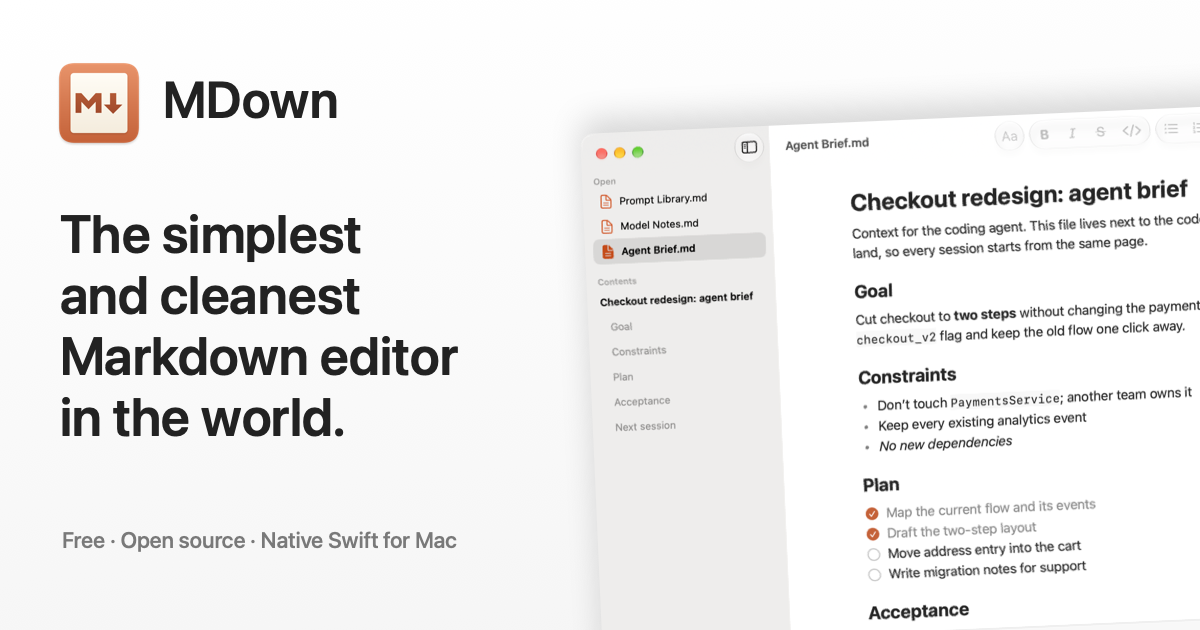
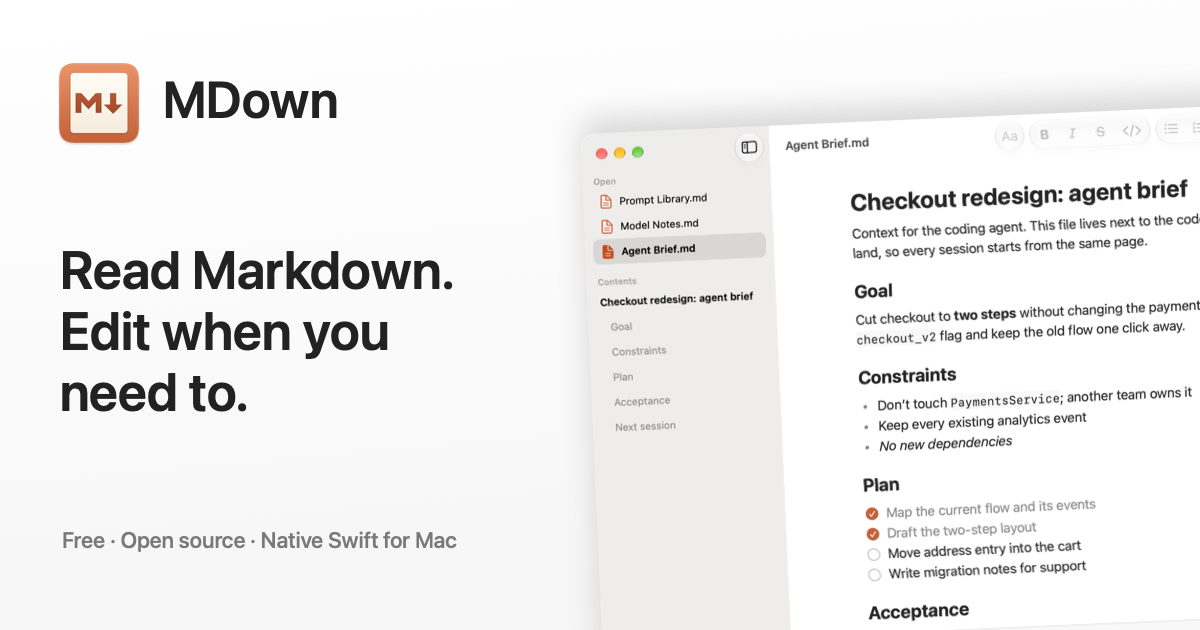
Focus the website on reading Markdown and shorten the copy

Changed region(s): [[0.0308, 0.3317, 0.4008, 0.6937]]

diff --git a/docs/index.html b/docs/index.html
@@ -10,12 +10,12 @@
   document.documentElement.classList.add(/Macintosh/.test(navigator.userAgent) && navigator.maxTouchPoints < 2 ? "is-mac" : "not-mac");
 </script>
 <meta name="viewport" content="width=device-width, initial-scale=1">
-<title>MDown, the simplest and cleanest Markdown editor in the world</title>
-<meta name="description" content="MDown is a free, open-source, native Mac Markdown editor. AI speaks Markdown, and MDown makes every page easy to read and one click away from editing.">
+<title>MDown — Read Markdown. Edit when you need to.</title>
+<meta name="description" content="We read Markdown more than we edit it. MDown opens it instantly as a clean page. Free, open source, and native to Mac. No accounts, sync, or vaults.">
 <meta name="theme-color" content="#ffffff" media="(prefers-color-scheme: light)">
 <meta name="theme-color" content="#1c1c1e" media="(prefers-color-scheme: dark)">
-<meta property="og:title" content="MDown, the simplest and cleanest Markdown editor in the world">
-<meta property="og:description" content="Free, open source, native Swift. Easy to read, one click to edit.">
+<meta property="og:title" content="MDown — Read Markdown. Edit when you need to.">
+<meta property="og:description" content="Opens instantly as a clean page. Free, open source, and native to Mac. No accounts, sync, or vaults.">
 <meta property="og:url" content="https://mdown.sandeepgangarapu.com/">
 <meta property="og:type" content="website">
 <meta name="twitter:card" content="summary_large_image">
@@ -24,7 +24,7 @@
 <meta property="og:image" content="https://mdown.sandeepgangarapu.com/assets/og.png">
 <meta property="og:image:width" content="1200">
 <meta property="og:image:height" content="630">
-<meta property="og:image:alt" content="MDown — The simplest and cleanest Markdown editor in the world. Free, open source, and built with native Swift for Mac.">
+<meta property="og:image:alt" content="MDown — Read Markdown. Edit when you need to. Free, open source, native Swift for Mac.">
 <meta name="twitter:image" content="https://mdown.sandeepgangarapu.com/assets/og.png">
 <link rel="icon" type="image/svg+xml" href="/assets/favicon.svg">
 <link rel="icon" type="image/png" sizes="64x64" href="/assets/favicon.png">
@@ -131,11 +131,11 @@
   }
 
   /* Hero */
-  .hero { padding: clamp(48px, 9vw, 120px) 0 clamp(64px, 8vw, 112px); }
+  .hero { padding: clamp(48px, 7vw, 80px) 0 clamp(56px, 7vw, 88px); }
   h1 {
     margin: 0;
-    max-width: 16ch;
-    font-size: clamp(42px, 6.6vw, 84px);
+    max-width: 22ch;
+    font-size: clamp(38px, 6.6vw, 76px);
     line-height: 1.0;
     font-weight: 700;
     letter-spacing: -0.038em;
@@ -179,7 +179,7 @@
   .stars { font-weight: 500; color: var(--muted); }
 
   /* Hero: the page, then the same page with one block opened, on a loop. */
-  .shot { margin: clamp(48px, 7vw, 88px) auto 0; max-width: 1240px; padding: 0 clamp(8px, 3vw, 40px); }
+  .shot { margin: clamp(40px, 6vw, 64px) auto 0; max-width: 1240px; padding: 0 clamp(8px, 3vw, 40px); }
   .loop {
     position: relative;
     filter: drop-shadow(0 30px 50px rgba(0, 0, 0, 0.18)) drop-shadow(0 2px 6px rgba(0, 0, 0, 0.10));
@@ -219,7 +219,7 @@
   }
 
   /* Sections */
-  section { padding: clamp(72px, 10vw, 136px) 0; }
+  section { padding: clamp(56px, 7vw, 88px) 0; }
   h2 {
     margin: 0;
     max-width: 18ch;
@@ -230,13 +230,7 @@
   }
   .section-intro { margin: 22px 0 0; max-width: var(--measure); font-size: 20px; line-height: 1.5; color: var(--muted); }
 
-  .problem { background: var(--canvas); }
   .try, .compare { background: var(--canvas); }
-  .problem .columns { display: grid; gap: 28px 64px; margin-top: 40px; max-width: 980px; }
-  @media (min-width: 820px) { .problem .columns { grid-template-columns: 1fr 1fr; } }
-  .problem p { margin: 0; font-size: 20px; line-height: 1.55; }
-  .problem p + p { color: var(--muted); }
-  .problem .columns p:last-child { color: var(--ink); }
 
   /* Live demo */
   .demo-layout { display: grid; gap: 40px 72px; align-items: start; }
@@ -323,7 +317,7 @@
 
   /* Features */
   .features { background: var(--page); }
-  .feature-list { display: grid; gap: 40px 72px; margin: 56px 0 0; }
+  .feature-list { display: grid; gap: 28px 56px; margin: 36px 0 0; }
   @media (min-width: 760px) { .feature-list { grid-template-columns: 1fr 1fr; } }
   @media (min-width: 1100px) { .feature-list { grid-template-columns: 1fr 1fr 1fr; } }
   .feature-list dt { font-size: 20px; font-weight: 650; letter-spacing: -0.012em; display: flex; align-items: center; gap: 10px; }
@@ -364,7 +358,7 @@
   .terminal .copy:hover { box-shadow: 0 0 0 1px var(--muted); }
 
   /* Comparison */
-  .compare-table { width: 100%; max-width: 980px; margin: 48px 0 0; border-collapse: collapse; font-size: 16px; }
+  .compare-table { width: 100%; max-width: 980px; margin: 32px 0 0; border-collapse: collapse; font-size: 16px; }
   .compare-table caption { position: absolute; width: 1px; height: 1px; overflow: hidden; clip: rect(0 0 0 0); }
   .compare-table th, .compare-table td { padding: 15px 18px; text-align: left; border-bottom: 1px solid var(--rule); vertical-align: top; }
   .compare-table thead th { font-size: 14px; font-weight: 600; color: var(--muted); border-bottom-width: 1.5px; }
@@ -441,8 +435,13 @@
 
   @media (max-width: 560px) {
     .site-nav .hide-small { display: none; }
+    h1 { font-size: 34px; }
+    .compare-table { font-size: 14px; }
+    .compare-table th, .compare-table td { padding: 12px 6px; }
+    .compare-table thead th { font-size: 12px; }
     .button { width: 100%; justify-content: center; }
   }
+  h1 .keep-together { white-space: nowrap; }
 </style>
 </head>
 <body>
@@ -461,24 +460,24 @@
 <main>
   <div class="hero">
     <div class="wrap">
-      <h1 class="md-heading"><span class="md-mark" aria-hidden="true">#</span>The simplest and cleanest Markdown editor in the world.</h1>
-      <p class="lede">AI writes in Markdown. MDown makes it easy to read and puts editing one click away.</p>
+      <h1 class="md-heading"><span class="md-mark" aria-hidden="true">#</span>Read Markdown.<br>Edit when you <span class="keep-together">need to.</span></h1>
+      <p class="lede">We read Markdown more than we edit it. MDown opens it instantly as a clean page.</p>
       <div class="actions mac-only">
         <a class="button button-primary" href="https://github.com/sandeepgangarapu/mdown/releases/latest/download/MDown.dmg">
           <svg viewBox="0 0 24 24" fill="none" stroke="currentColor" stroke-width="2.2" stroke-linecap="round" stroke-linejoin="round" aria-hidden="true"><path d="M12 4v11"/><path d="m7 10 5 5 5-5"/><path d="M5 20h14"/></svg>
           Download for Mac
         </a>
-        <a class="button button-quiet" href="https://github.com/sandeepgangarapu/mdown">View source on GitHub<span class="stars" data-stars hidden></span></a>
+        <a class="button button-quiet" href="https://github.com/sandeepgangarapu/mdown">View source<span class="stars" data-stars hidden></span></a>
       </div>
-      <p class="release-meta mac-only"><span data-release-line>MDown 1.1 is a 4 MB download for macOS 26 or later.</span> <a href="#first-launch">The first launch takes one extra click.</a></p>
+      <p class="release-meta mac-only"><span data-release-line>MDown 1.1.1 · 4 MB · macOS 26+</span> · <a href="#first-launch">First launch help</a></p>
       <div class="actions other-only">
-        <p class="other-note">MDown is a Mac app. Send yourself the link and open it on your Mac.</p>
+        <p class="other-note">For Mac. Save the link for later.</p>
         <button class="button button-primary" type="button" data-share>Copy link</button>
       </div>
       <ul class="facts">
         <li><svg viewBox="0 0 16 16" fill="none" stroke="currentColor" stroke-width="2" stroke-linecap="round" stroke-linejoin="round" aria-hidden="true"><path d="m3.5 8.5 3 3 6-7"/></svg>Free</li>
-        <li><svg viewBox="0 0 16 16" fill="none" stroke="currentColor" stroke-width="2" stroke-linecap="round" stroke-linejoin="round" aria-hidden="true"><path d="m3.5 8.5 3 3 6-7"/></svg>Open source, MIT licensed</li>
-        <li><svg viewBox="0 0 16 16" fill="none" stroke="currentColor" stroke-width="2" stroke-linecap="round" stroke-linejoin="round" aria-hidden="true"><path d="m3.5 8.5 3 3 6-7"/></svg>Native Swift, made for macOS</li>
+        <li><svg viewBox="0 0 16 16" fill="none" stroke="currentColor" stroke-width="2" stroke-linecap="round" stroke-linejoin="round" aria-hidden="true"><path d="m3.5 8.5 3 3 6-7"/></svg>Open source</li>
+        <li><svg viewBox="0 0 16 16" fill="none" stroke="currentColor" stroke-width="2" stroke-linecap="round" stroke-linejoin="round" aria-hidden="true"><path d="m3.5 8.5 3 3 6-7"/></svg>Native Swift</li>
       </ul>
     </div>
     <div class="shot">
@@ -497,26 +496,16 @@
         </picture>
         <svg class="cursor" viewBox="0 0 22 30" aria-hidden="true"><path d="M2 2v22.5l5.6-5.4 3.9 8.9 3.7-1.6-3.8-8.6H19z" fill="#000" stroke="#fff" stroke-width="1.6" stroke-linejoin="round"/></svg>
       </div>
-      <p class="loop-caption">Click a block to see its Markdown. Click away and it sets again. <a href="#try">Try it on this page.</a></p>
+      <p class="loop-caption">One click to edit. Click away to read. <a href="#try">Try it.</a></p>
     </div>
   </div>
-
-  <section class="problem" aria-labelledby="problem-title">
-    <div class="wrap">
-      <h2 class="md-heading" id="problem-title"><span class="md-mark" aria-hidden="true">##</span>Everything else is too much.</h2>
-      <div class="columns">
-        <p>Other editors keep your writing in their own database, behind an account, a sync service, and a plugin store. Or they’re expensive. Or they’re just too complex.</p>
-        <p>Working with AI needs less. You open a .md file, read what the model wrote, fix a line, and hand it back. MDown does exactly that, then gets out of the way.</p>
-      </div>
-    </div>
-  </section>
 
   <section class="try" id="try" aria-labelledby="try-title">
     <div class="wrap demo-layout">
       <div>
-        <h2 class="md-heading" id="try-title"><span class="md-mark" aria-hidden="true">##</span>Click a line to see how it’s written.</h2>
-        <p class="section-intro">Every block on an MDown page is real Markdown. Click one and it turns into its source, right where it was. Change it, then click away and it sets again.</p>
-        <p class="demo-hint">Try it on this page. Press <kbd>esc</kbd> or click outside to finish.</p>
+        <h2 class="md-heading" id="try-title"><span class="md-mark" aria-hidden="true">##</span>Try a quick edit.</h2>
+        <p class="section-intro">Click a block. Edit the Markdown. Click away to read.</p>
+        <p class="demo-hint"><kbd>esc</kbd> works too.</p>
       </div>
       <div class="demo-page" id="demo" aria-label="Live MDown page"></div>
     </div>
@@ -528,27 +517,27 @@
       <dl class="feature-list">
         <div>
           <dt><svg viewBox="0 0 24 24" fill="none" stroke="currentColor" stroke-width="1.8" stroke-linecap="round" stroke-linejoin="round" aria-hidden="true"><path d="M14 3H7a2 2 0 0 0-2 2v14a2 2 0 0 0 2 2h10a2 2 0 0 0 2-2V8z"/><path d="M14 3v5h5"/></svg>Your files stay files</dt>
-          <dd>Plain .md files on disk. No database, no account, no sync service. Git, your terminal, and your AI tools all read the same file you do.</dd>
+          <dd>Plain .md files. No accounts, sync, or vaults.</dd>
         </div>
         <div>
           <dt><svg viewBox="0 0 24 24" fill="none" stroke="currentColor" stroke-width="1.8" stroke-linecap="round" stroke-linejoin="round" aria-hidden="true"><path d="M13 2 4 14h7l-1 8 9-12h-7z"/></svg>Native and quick</dt>
-          <dd>Written in Swift with SwiftUI and AppKit. It opens instantly, stays light on memory, and behaves like the rest of your Mac.</dd>
+          <dd>Opens instantly. Feels like your Mac.</dd>
         </div>
         <div>
           <dt><svg viewBox="0 0 24 24" fill="none" stroke="currentColor" stroke-width="1.8" stroke-linecap="round" stroke-linejoin="round" aria-hidden="true"><path d="M4 20h4L19 9l-4-4L4 16z"/><path d="m13.5 6.5 4 4"/></svg>Edit in place</dt>
-          <dd>Click any block to edit its Markdown. Return starts a new paragraph or list item, Tab nests a list, and the arrow keys move between blocks.</dd>
+          <dd>Click a block to edit. Click away to read.</dd>
         </div>
         <div>
           <dt><svg viewBox="0 0 24 24" fill="none" stroke="currentColor" stroke-width="1.8" stroke-linecap="round" stroke-linejoin="round" aria-hidden="true"><rect x="3" y="4" width="18" height="16" rx="3"/><path d="M9 4v16"/></svg>Every open file in view</dt>
-          <dd>The sidebar lists your open documents, the current one’s headings, and recent files. Switch with a click, jump to any section.</dd>
+          <dd>Open files and headings, together in the sidebar.</dd>
         </div>
         <div>
           <dt><svg viewBox="0 0 24 24" fill="none" stroke="currentColor" stroke-width="1.8" stroke-linecap="round" stroke-linejoin="round" aria-hidden="true"><rect x="3" y="6" width="18" height="12" rx="2.5"/><path d="M7 10h.01M11 10h.01M15 10h.01M8 14h8"/></svg>Shortcuts you already know</dt>
-          <dd>Title, Heading, Body, and Checklist use the same keys as Notes. Bold is ⌘B, a link is ⌘K, and Find is ⌘F.</dd>
+          <dd>⌘B for bold. ⌘K for links. ⌘F to find.</dd>
         </div>
         <div>
           <dt><svg viewBox="0 0 24 24" fill="none" stroke="currentColor" stroke-width="1.8" stroke-linecap="round" stroke-linejoin="round" aria-hidden="true"><path d="m8 7-5 5 5 5"/><path d="m16 7 5 5-5 5"/></svg>Free and open source</dt>
-          <dd>MIT licensed and built in the open. MDown checks for new versions and updates itself in one click.</dd>
+          <dd>MIT licensed. Automatic updates included.</dd>
         </div>
       </dl>
     </div>
@@ -564,13 +553,11 @@
             <tr><td></td><th scope="col">Note apps</th><th scope="col">Code editors</th><th scope="col" class="us">MDown</th></tr>
           </thead>
           <tbody>
-            <tr><th scope="row">Free</th><td>Often paid</td><td>Usually</td><td class="us">Yes</td></tr>
-            <tr><th scope="row">Native Mac app</th><td>Some</td><td>Rarely</td><td class="us">Yes</td></tr>
-            <tr><th scope="row">Plain .md files on your disk</th><td>Some</td><td>Yes</td><td class="us">Yes</td></tr>
-            <tr><th scope="row">No account needed</th><td>Rarely</td><td>Yes</td><td class="us">Yes</td></tr>
-            <tr><th scope="row">Reads like a finished page</th><td>Yes</td><td>In a preview pane</td><td class="us">Yes</td></tr>
-            <tr><th scope="row">Edit the Markdown in place</th><td>No</td><td>In a split view</td><td class="us">One click</td></tr>
-            <tr><th scope="row">Download size</th><td>Often 100 MB or more</td><td>Often 100 MB or more</td><td class="us">About 4 MB</td></tr>
+            <tr><th scope="row">Opens instantly</th><td>Varies</td><td>Varies</td><td class="us">Yes</td></tr>
+            <tr><th scope="row">Opens ready to read</th><td>Varies</td><td>Preview mode</td><td class="us">Yes</td></tr>
+            <tr><th scope="row">Free</th><td>Varies</td><td>Varies</td><td class="us">Yes</td></tr>
+            <tr><th scope="row">Account, sync, or vault</th><td>Varies</td><td>Varies</td><td class="us">None needed</td></tr>
+            <tr><th scope="row">Main purpose</th><td>Notes</td><td>Code</td><td class="us">Markdown</td></tr>
           </tbody>
         </table>
       </div>
@@ -580,7 +567,7 @@
   <section class="privacy" aria-labelledby="privacy-title">
     <div class="wrap">
       <h2 class="md-heading" id="privacy-title"><span class="md-mark" aria-hidden="true">##</span>Your words stay on your Mac.</h2>
-      <p class="privacy-statement">No account. No tracking. No cloud of its own. MDown reads and writes plain files on your disk, and only goes online to check for updates and to load images your documents link to.</p>
+      <p class="privacy-statement">No account or tracking. Only update checks and linked images use the internet.</p>
     </div>
   </section>
 
@@ -597,16 +584,15 @@
           <a class="button button-quiet" href="https://github.com/sandeepgangarapu/mdown/releases">All releases</a>
         </div>
         <div class="actions other-only">
-          <p class="other-note">MDown runs on Macs with macOS 26 or later. Send yourself the link for later.</p>
+          <p class="other-note">For macOS 26+. Save the link for later.</p>
           <button class="button button-primary" type="button" data-share>Copy link</button>
         </div>
         <ul class="requirements">
-          <li data-release-line>MDown 1.1 is a 4 MB download for macOS 26 or later.</li>
-          <li>Runs natively on Apple silicon and Intel.</li>
-          <li>Updates itself when a new version is out.</li>
+          <li data-release-line>MDown 1.1.1 · 4 MB · macOS 26+</li>
+          <li>Apple silicon and Intel. Automatic updates.</li>
         </ul>
         <details class="whats-new" data-whats-new hidden>
-          <summary>What’s new in MDown <span data-version>1.1</span></summary>
+          <summary>What’s new in MDown <span data-version>1.1.1</span></summary>
           <div class="notes" data-notes></div>
         </details>
 
@@ -619,8 +605,8 @@
       </div>
     </div>
         <div class="wrap first-launch" id="first-launch">
-          <h3>The first time you open MDown</h3>
-          <p class="first-launch-intro">MDown isn’t notarized by Apple, so macOS asks you to confirm it once. It takes about ten seconds, and you never do it again.</p>
+          <h3>First launch</h3>
+          <p class="first-launch-intro">MDown isn’t notarized, so macOS asks you to confirm it once.</p>
           <ol class="steps">
             <li>
               <div class="mock" aria-hidden="true">
@@ -631,7 +617,7 @@
                   <span class="mock-buttons"><span class="mock-btn">Move to Trash</span><span class="mock-btn default ring">Done</span></span>
                 </div>
               </div>
-              <p><strong>Open MDown and click Done.</strong> macOS stops apps it hasn’t checked itself. That’s expected.</p>
+              <p><strong>Open MDown. Click Done.</strong></p>
             </li>
             <li>
               <div class="mock" aria-hidden="true">
@@ -641,7 +627,7 @@
                   <div class="row"><span>“MDown” was blocked to protect your Mac.</span><span class="mock-btn ring">Open Anyway</span></div>
                 </div>
               </div>
-              <p><strong>Click Open Anyway in System Settings.</strong> It’s under Privacy &amp; Security, near the bottom.</p>
+              <p><strong>Settings → Privacy &amp; Security.</strong> Scroll to Open Anyway.</p>
             </li>
             <li>
               <div class="mock" aria-hidden="true">
@@ -652,7 +638,7 @@
                   <span class="mock-buttons"><span class="mock-btn">Cancel</span><span class="mock-btn default ring">Open Anyway</span></span>
                 </div>
               </div>
-              <p><strong>Confirm once.</strong> From then on MDown opens like any other app, and updates install without asking again.</p>
+              <p><strong>Click Open Anyway and confirm.</strong> Use Touch ID or your password.</p>
             </li>
           </ol>
         </div>
@@ -661,7 +647,7 @@
 
 <footer>
   <div class="wrap">
-    <span>MDown is free and open source under the MIT License. Made by <a href="https://sandeepgangarapu.com">Sandeep Gangarapu</a>.</span>
+    <span>Made by <a href="https://sandeepgangarapu.com">Sandeep Gangarapu</a>.</span>
     <nav aria-label="Footer">
       <a href="https://github.com/sandeepgangarapu/mdown">GitHub</a>
       <a href="https://github.com/sandeepgangarapu/mdown/issues">Report an issue</a>
@@ -686,7 +672,7 @@
     if (version && bytes) {
       const mb = Math.max(1, Math.round(bytes / 1e6));
       document.querySelectorAll("[data-release-line]").forEach((node) => {
-        node.textContent = `MDown ${version} is a ${mb} MB download for macOS 26 or later.`;
+        node.textContent = `MDown ${version} · ${mb} MB · macOS 26+`;
       });
     }
     const whatsNew = document.querySelector("[data-whats-new]");
